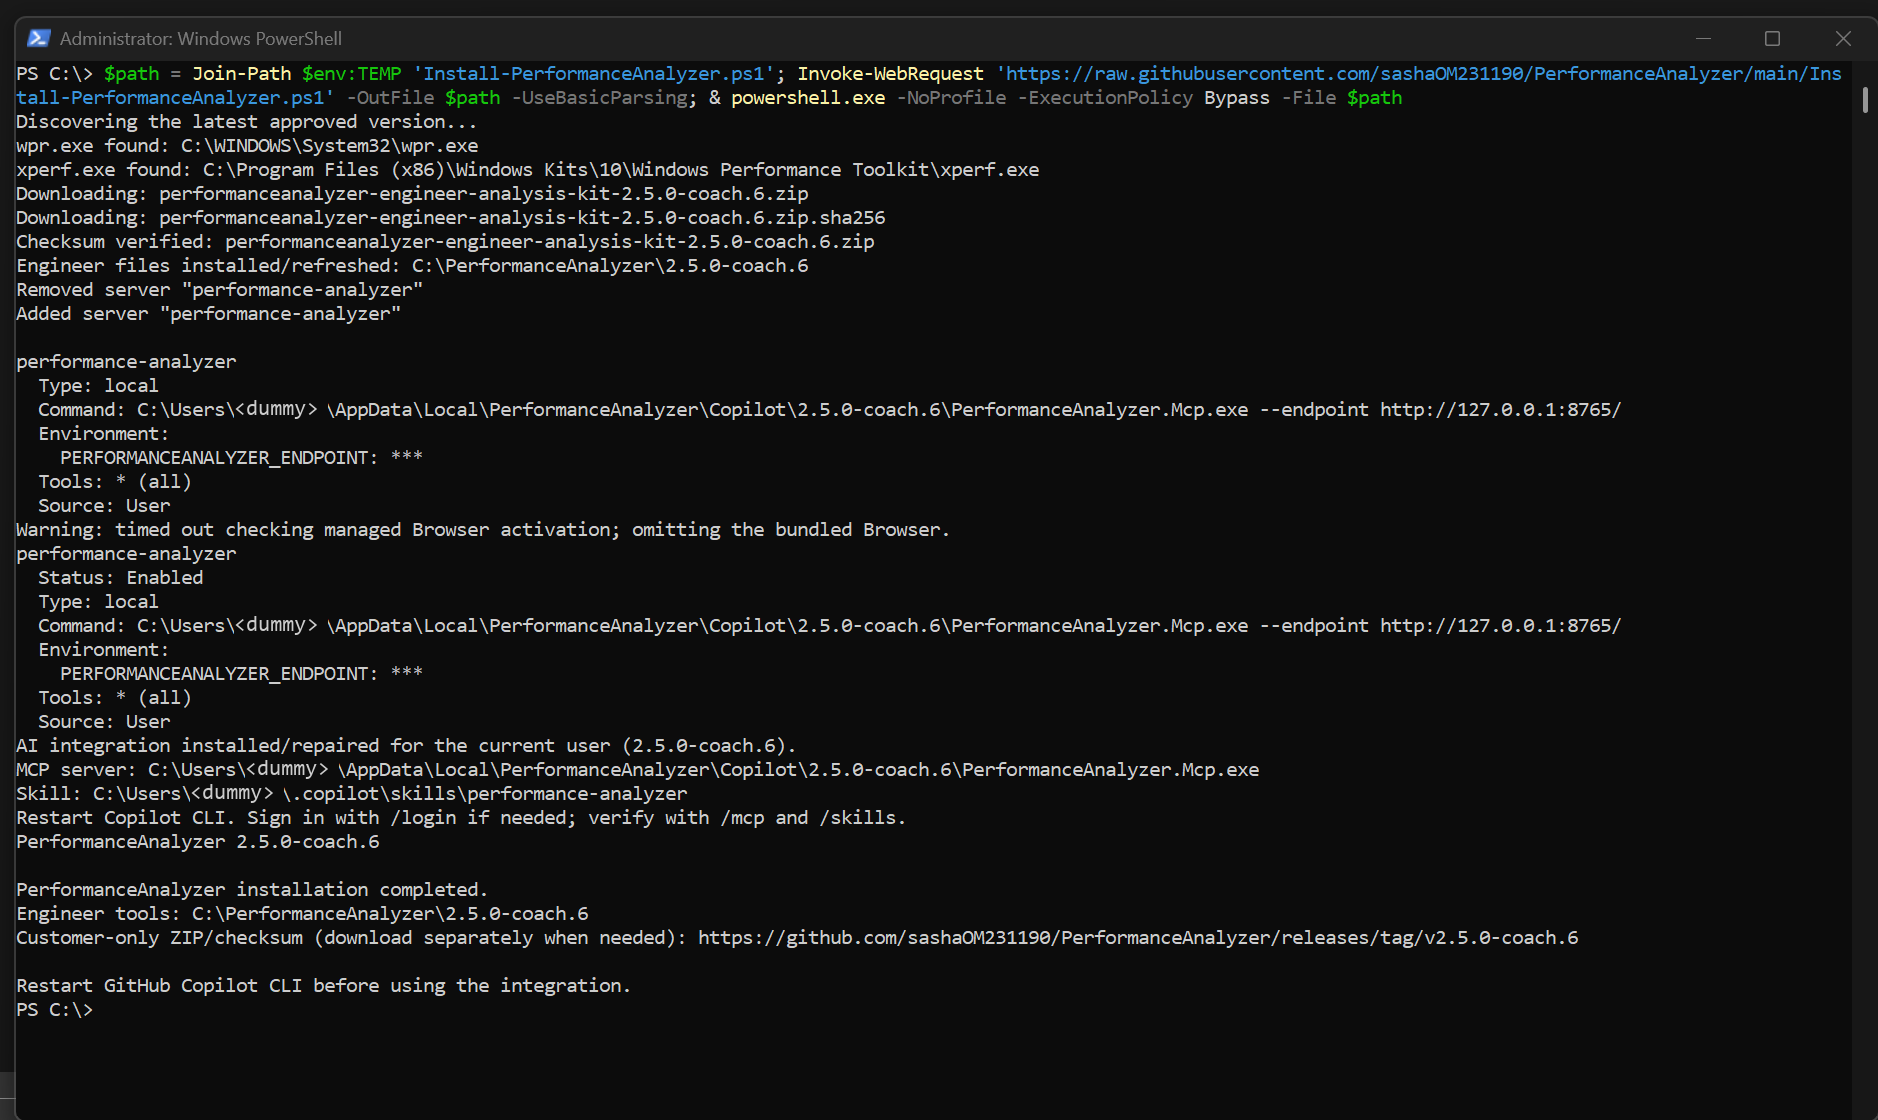
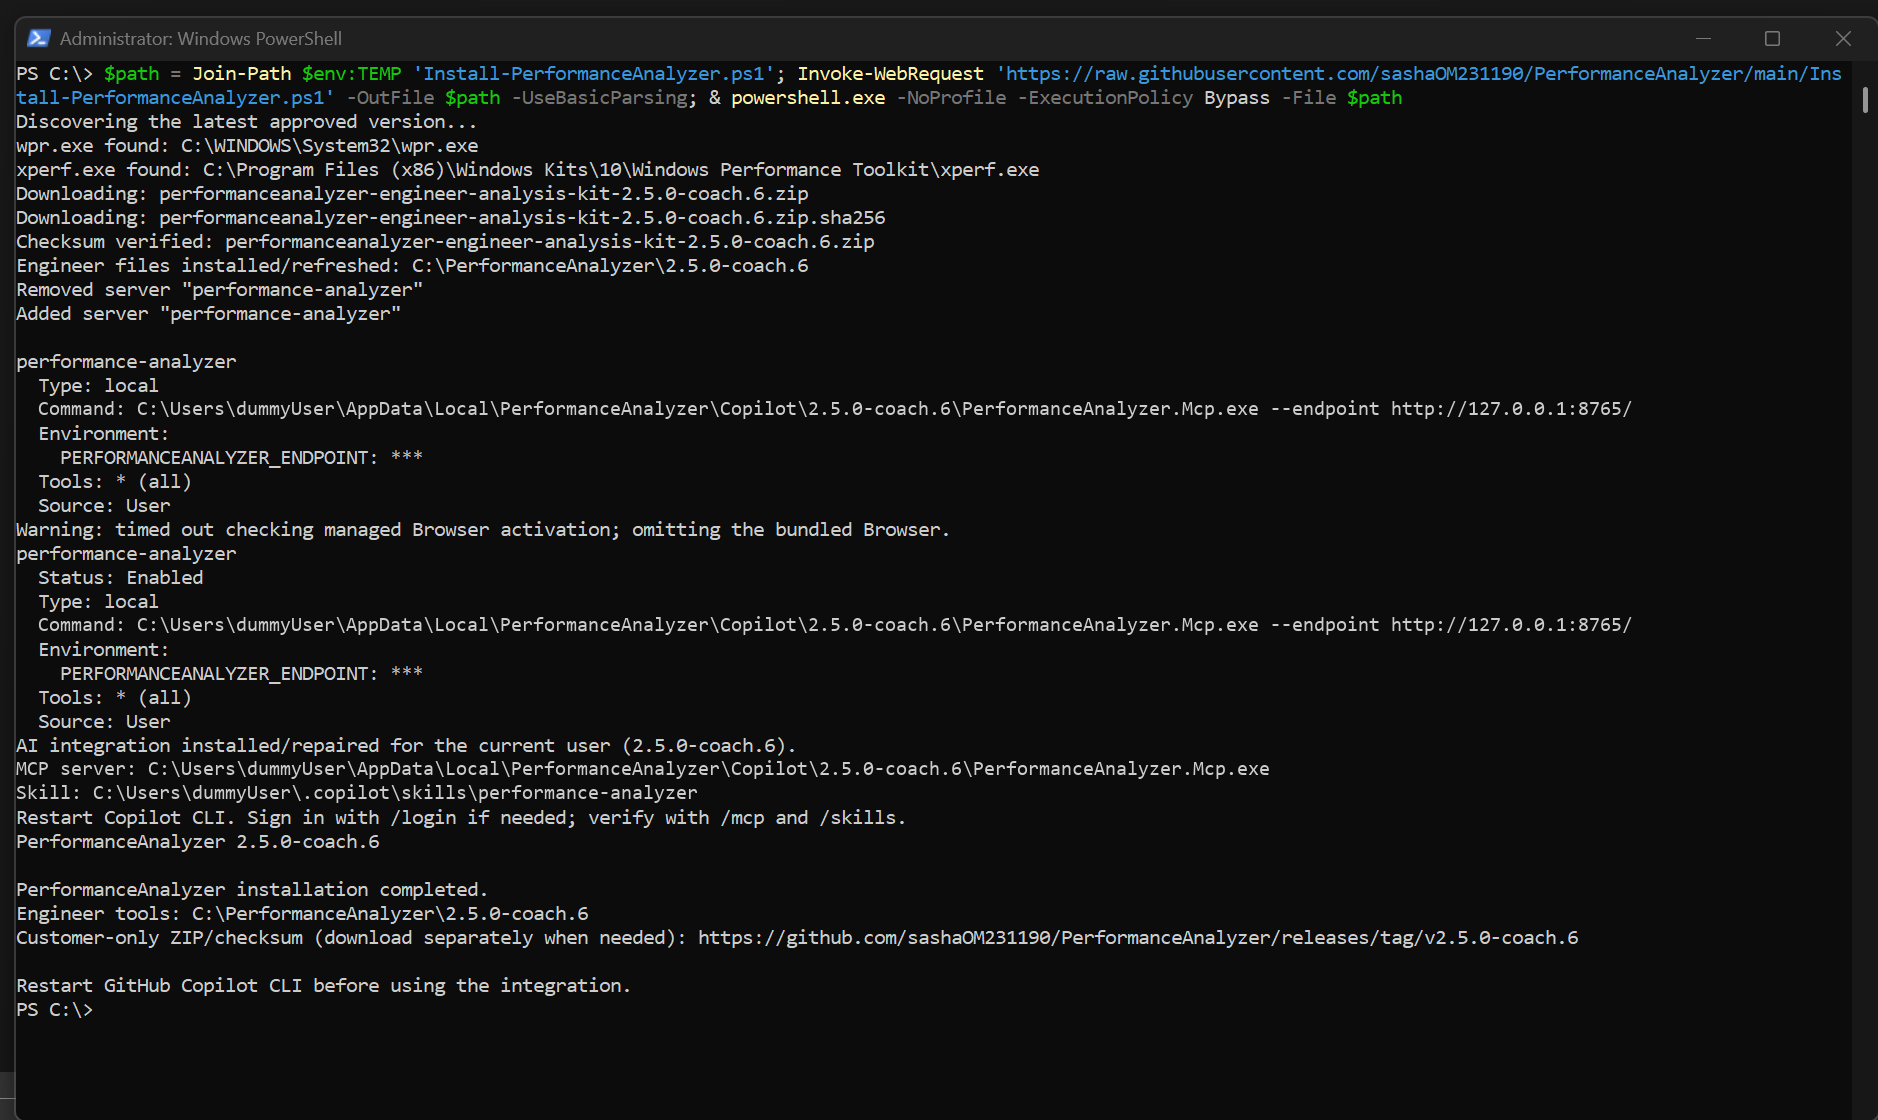
Use correctly formatted dummyUser paths in installation screenshot
Copilot-Session: c2f8c749-92b9-4755-8903-c5f95000f6e7

diff --git a/README.md b/README.md
@@ -61,7 +61,7 @@ powershell.exe -NoProfile -ExecutionPolicy Bypass -File $path -SkipCopilotIntegr
 
 The screenshot below shows a completed installation of `2.5.0-coach.6`.
 Your version, user profile, and installation paths may differ.
-The username is replaced with `<dummy>` for privacy; it is not a literal folder name.
+The username is replaced with `dummyUser` for privacy; use your own Windows user profile.
 
 ![PowerShell output showing checksum verification, installed engineer tools, registered Copilot integration, and the installation-completed message.](documentation/images/installation-success.png)
 
